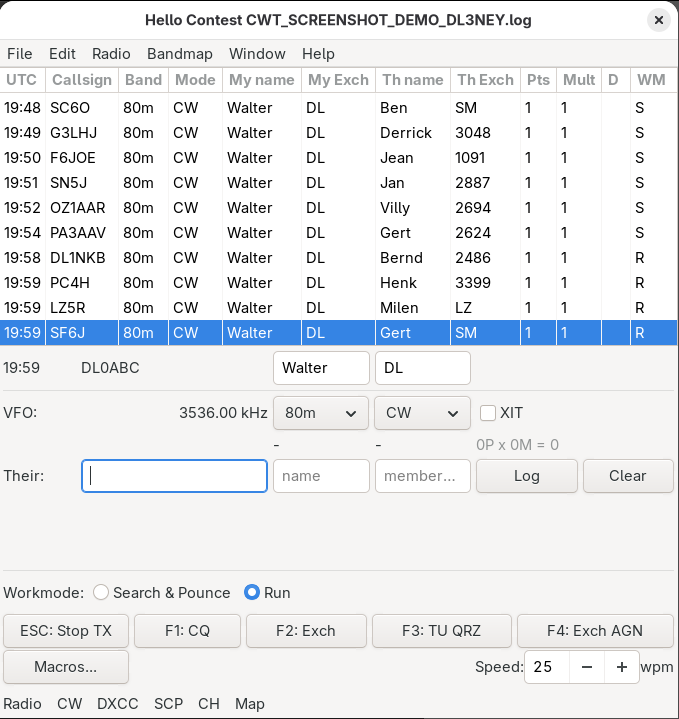
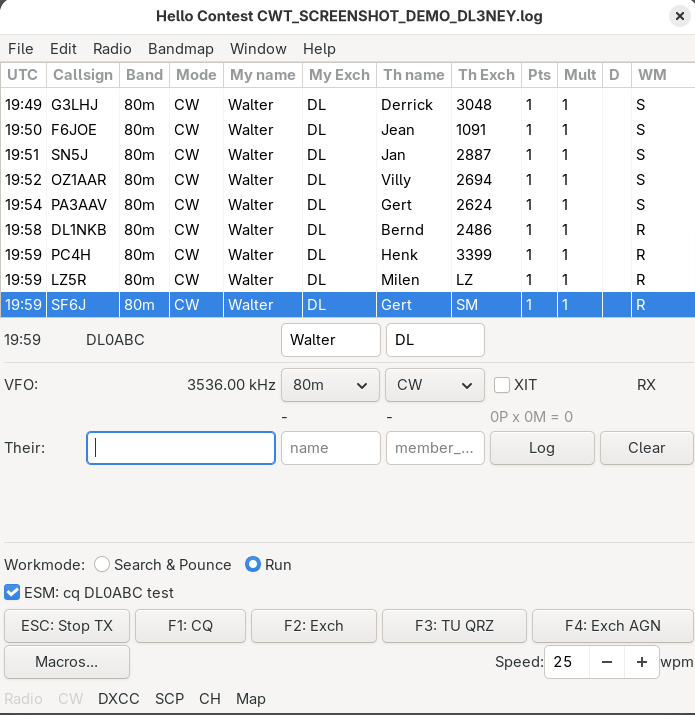
add ESM to screenshots

diff --git a/script/screenshots.go b/script/screenshots.go
@@ -91,7 +91,7 @@ var ScreenshotsScript = &Script{
 		{
 			enter: AskForScreenshot("main window CW macros", 0),
 			steps: []Step{
-				Describe("only the CW area, mark (1) workmode, (2) macro button, (3) macros... button, (4) speed setting", 3*time.Second),
+				Describe("only the CW area, mark (1) workmode, (2) ESM, (3) macro button, (4) macros... button, (5) speed setting", 3*time.Second),
 				TriggerScreenshot("main_window_macros"),
 				func(_ context.Context, r *Runtime) time.Duration {
 					r.UI(func() {
